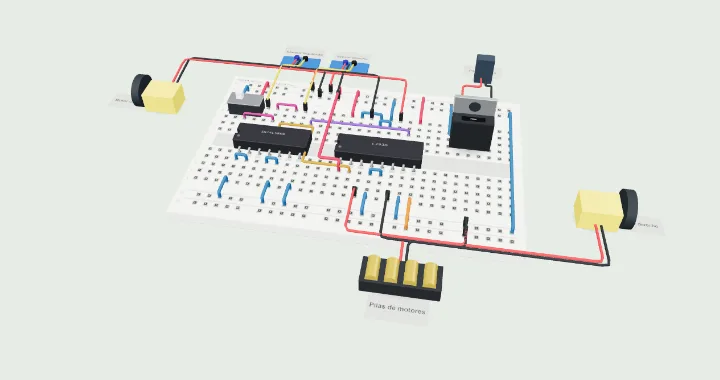
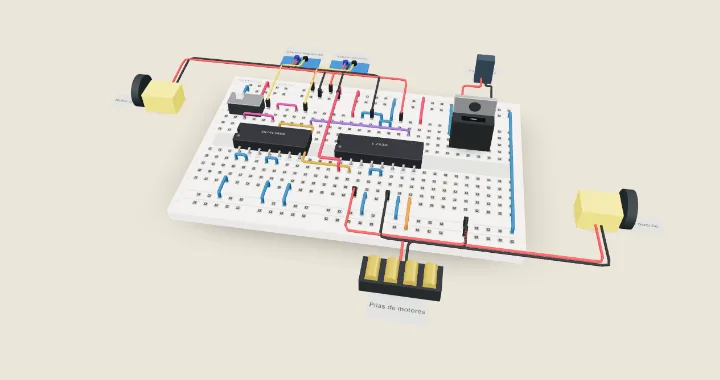
Rediseño 5: catálogo con un solo botón relleno y miniaturas sobre papel
Solo la práctica destacada lleva el botón cobre relleno; las demás usan
contorno que se llena al pasar sobre la tarjeta (sube 2 px, sin rebote).
Miniaturas 3D regeneradas con tools/build-turntables.cjs sobre el nuevo
fondo papel #ece6da.

Changed region(s): [[0.2444, 0.5789, 0.7028, 0.7237], [0.7028, 0.3184, 0.7639, 0.6658], [0.275, 0.3184, 0.3056, 0.3763]]

diff --git a/protoboard-ah/appearance.css b/protoboard-ah/appearance.css
@@ -676,3 +676,19 @@ body.design-enhanced #map .connection.selected .endpoint{stroke:var(--appearance
 /* Los cables que no tocan este paso se apagan con suavidad */
 body.design-enhanced #map .connection{transition:opacity var(--taller-cam) var(--taller-ease)}
 @media (prefers-reduced-motion:reduce){body.design-enhanced #map .connection{transition:none}}
+
+/* ==========================================================================
+   Rediseño 5 · catálogo: un solo botón relleno (la práctica destacada).
+   Las demás tarjetas usan botón de contorno que se llena al pasar sobre la
+   tarjeta; la tarjeta sube 2 px y su borde toma el color cobre.
+   ========================================================================== */
+body.catalog-home .circuit-card:not(.catalog-featured) .circuit-card-action{
+  background:transparent;color:var(--appearance-accent);border:1px solid color-mix(in srgb,var(--appearance-accent) 50%,var(--appearance-border));box-shadow:none;
+  transition:background-color var(--taller-fast) var(--taller-ease),color var(--taller-fast) var(--taller-ease),border-color var(--taller-fast) var(--taller-ease)}
+body.catalog-home .circuit-card:not(.catalog-featured):is(:hover,:focus-within) .circuit-card-action{background:var(--appearance-accent);color:var(--appearance-on-accent);border-color:var(--appearance-accent)}
+body.catalog-home .circuit-grid .circuit-card{transition:transform var(--taller-fast) var(--taller-ease),box-shadow .2s var(--taller-ease),border-color .2s var(--taller-ease)}
+body.catalog-home .circuit-grid .circuit-card:hover{transform:translateY(-2px);border-color:color-mix(in srgb,var(--appearance-accent) 40%,var(--appearance-border))}
+@media (prefers-reduced-motion:reduce){body.catalog-home .circuit-grid .circuit-card:hover{transform:none}}
+body.catalog-home .catalog-featured .circuit-card-action{box-shadow:0 1px 0 #ffffff2e inset,0 10px 24px -8px color-mix(in srgb,var(--appearance-accent) 65%,transparent)}
+/* La vista 3D de cada tarjeta se lee como una mesa de luz: borde interior suave */
+body.catalog-home .circuit-card-preview{box-shadow:inset 0 0 0 1px color-mix(in srgb,var(--appearance-ink) 8%,transparent)}
